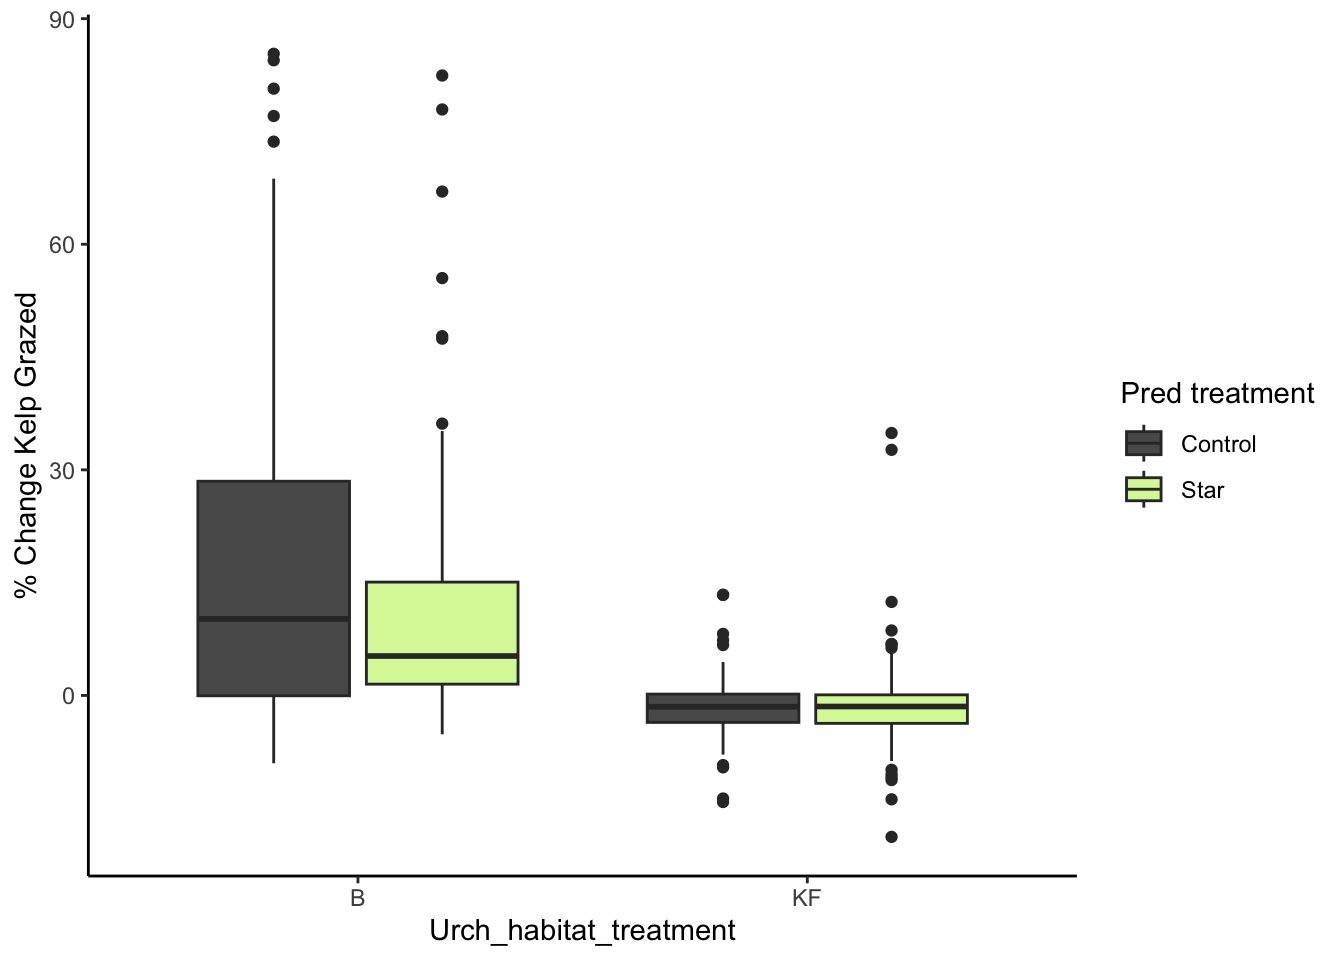
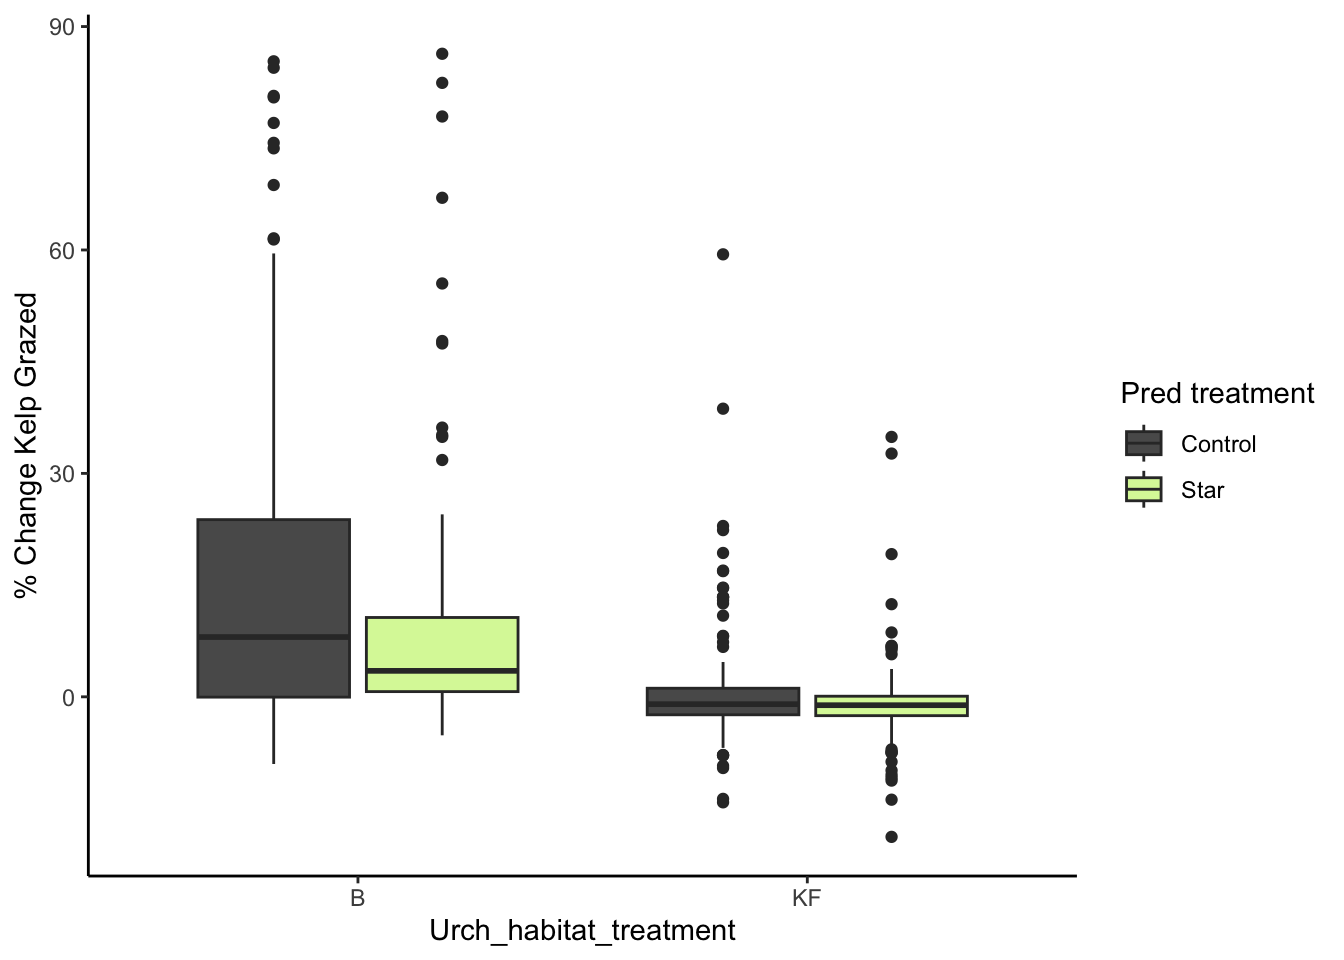
update w trial 10

diff --git a/docs/kelp_analysis.html b/docs/kelp_analysis.html
@@ -6,7 +6,7 @@
 
 <meta name="viewport" content="width=device-width, initial-scale=1.0, user-scalable=yes">
 
-<meta name="dcterms.date" content="2024-07-29">
+<meta name="dcterms.date" content="2024-08-17">
 
 <title>PycnoPie</title>
 <style>
@@ -91,7 +91,7 @@ pre > code.sourceCode > span > a:first-child::before { text-decoration: underlin
     <div>
     <div class="quarto-title-meta-heading">Published</div>
     <div class="quarto-title-meta-contents">
-      <p class="date">July 29, 2024</p>
+      <p class="date">August 17, 2024</p>
     </div>
   </div>
   
@@ -119,12 +119,13 @@ pre > code.sourceCode > span > a:first-child::before { text-decoration: underlin
 <span id="cb2-2"><a href="#cb2-2" aria-hidden="true" tabindex="-1"></a><span class="fu">unique</span>(<span class="fu">subset</span>(kelp_processed, <span class="sc">!</span><span class="fu">is.na</span>(pcnt_grazed))<span class="sc">$</span>Trial)</span></code><button title="Copy to Clipboard" class="code-copy-button"><i class="bi"></i></button></pre></div>
 </details>
 <div class="cell-output cell-output-stdout">
-<pre><code>[1] 1 2 3 4 5</code></pre>
+<pre><code> [1]  1  2  3  4  5  6  7  8  9 10</code></pre>
 </div>
 </div>
 </section>
 <section id="urchin-source-habitat-vs.-kelp-grazed-for-different-predator-treatments" class="level3">
 <h3 class="anchored" data-anchor-id="urchin-source-habitat-vs.-kelp-grazed-for-different-predator-treatments">Urchin source habitat vs.&nbsp;kelp grazed for different predator treatments</h3>
+<p>All trials:</p>
 <div class="cell">
 <details>
 <summary>Code</summary>
@@ -139,6 +140,24 @@ pre > code.sourceCode > span > a:first-child::before { text-decoration: underlin
 </details>
 <div class="cell-output-display">
 <p><img src="kelp_analysis_files/figure-html/unnamed-chunk-6-1.png" class="img-fluid" width="672"></p>
+</div>
+</div>
+<p>Individual trials:</p>
+<div class="cell">
+<details>
+<summary>Code</summary>
+<div class="sourceCode cell-code" id="cb5"><pre class="sourceCode r code-with-copy"><code class="sourceCode r"><span id="cb5-1"><a href="#cb5-1" aria-hidden="true" tabindex="-1"></a><span class="co">#graph w facet wrap for trial</span></span>
+<span id="cb5-2"><a href="#cb5-2" aria-hidden="true" tabindex="-1"></a><span class="fu">ggplot</span>(<span class="at">data =</span> <span class="fu">subset</span>(kelp_processed, <span class="sc">!</span><span class="fu">is.na</span>(pcnt_grazed)), <span class="fu">aes</span>(<span class="at">x =</span> Urch_habitat_treatment, <span class="at">y =</span> pcnt_grazed, </span>
+<span id="cb5-3"><a href="#cb5-3" aria-hidden="true" tabindex="-1"></a>                                  <span class="at">fill =</span> Pred_treatment) ) <span class="sc">+</span></span>
+<span id="cb5-4"><a href="#cb5-4" aria-hidden="true" tabindex="-1"></a>  <span class="fu">geom_boxplot</span>() <span class="sc">+</span></span>
+<span id="cb5-5"><a href="#cb5-5" aria-hidden="true" tabindex="-1"></a>  <span class="fu">theme_classic</span>() <span class="sc">+</span></span>
+<span id="cb5-6"><a href="#cb5-6" aria-hidden="true" tabindex="-1"></a>  <span class="fu">scale_fill_manual</span>(<span class="at">values =</span> <span class="fu">c</span>(<span class="st">'#5A5A5A'</span>,<span class="st">'#DAF7A6'</span>) ) <span class="sc">+</span></span>
+<span id="cb5-7"><a href="#cb5-7" aria-hidden="true" tabindex="-1"></a>  <span class="fu">ylab</span>(<span class="st">"% Change Kelp Grazed"</span>) <span class="sc">+</span></span>
+<span id="cb5-8"><a href="#cb5-8" aria-hidden="true" tabindex="-1"></a>  <span class="fu">labs</span>(<span class="at">fill =</span> <span class="st">"Pred treatment"</span>) <span class="sc">+</span> </span>
+<span id="cb5-9"><a href="#cb5-9" aria-hidden="true" tabindex="-1"></a>  <span class="fu">facet_wrap</span>(<span class="sc">~</span> Trial)</span></code><button title="Copy to Clipboard" class="code-copy-button"><i class="bi"></i></button></pre></div>
+</details>
+<div class="cell-output-display">
+<p><img src="kelp_analysis_files/figure-html/unnamed-chunk-7-1.png" class="img-fluid" width="672"></p>
 </div>
 </div>
 </section>
